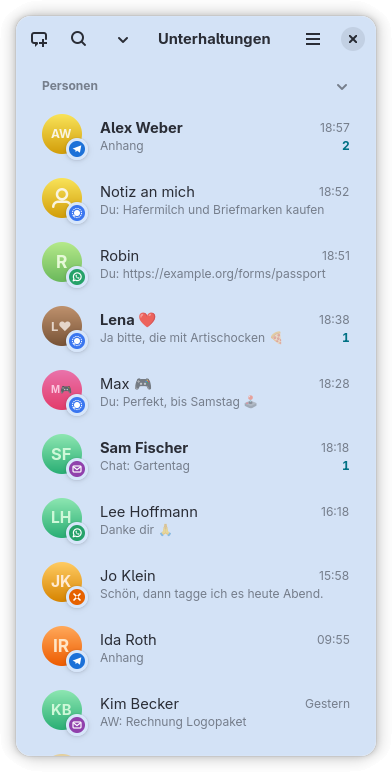
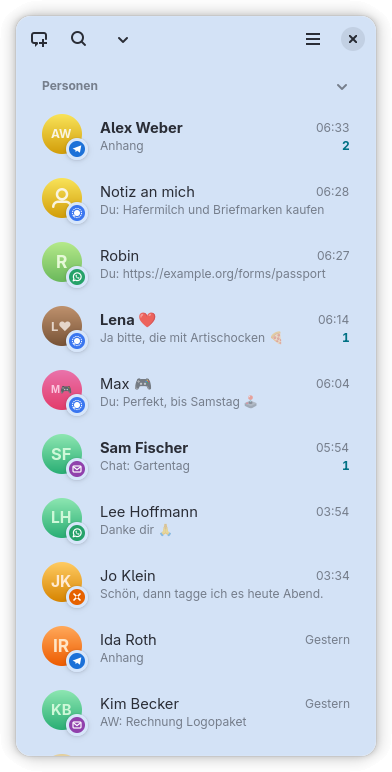
fix(ui): polish sidebar title, welcome, terms link (#492)
* fix(ui): polish sidebar title, welcome, terms link

* fix(ui): centre Delta Chat empty state

* docs(screenshots): re-render sidebar header

* chore(i18n): refresh catalogue references

diff --git a/app/src/window/welcome.ts b/app/src/window/welcome.ts
@@ -194,8 +194,27 @@ export function presentWelcome(parent: Gtk.Window | null, onClosed: () => void, 
       (load) => {
         const choices = mailAccountChoices(load);
         if (choices.length === 0) {
-          group.set_description(
-            _('No mail account yet. Once you add one, you can switch this on in its settings.'),
+          // Empty state under the explanation, centred in the space left, not a lone row.
+          const empty = new Adw.StatusPage({
+            iconName: 'mail-unread-symbolic',
+            title: _('No mail account yet'),
+            description: _('Once you add one, you can switch this on in its settings.'),
+            vexpand: true,
+          });
+          empty.add_css_class('compact');
+          const body = new Gtk.Box({ orientation: Gtk.Orientation.VERTICAL });
+          const intro = new Adw.PreferencesPage();
+          const introGroup = new Adw.PreferencesGroup({
+            title: _('Delta Chat'),
+            description: deltaChatPageText(),
+          });
+          intro.add(introGroup);
+          intro.set_vexpand(false);
+          body.append(intro);
+          body.append(empty);
+          const toolbar = page.get_child() as Adw.ToolbarView;
+          toolbar.set_content(
+            new Gtk.ScrolledWindow({ child: body, hscrollbarPolicy: Gtk.PolicyType.NEVER }),
           );
           return;
         }

diff --git a/app/src/window/terms-widgets.ts b/app/src/window/terms-widgets.ts
@@ -5,11 +5,14 @@
 
 import Gtk from 'gi://Gtk?version=4.0';
 import Pango from 'gi://Pango?version=1.0';
-import { _ } from '@curlew/protocol';
+import { _, fmt } from '@curlew/protocol';
 
-/** The link to the full terms. A long URL is shortened in the middle instead of widening the page. */
-export function termsLinkButton(uri: string, halign: Gtk.Align): Gtk.LinkButton {
-  const label = new Gtk.Label({ label: uri, ellipsize: Pango.EllipsizeMode.MIDDLE });
+/** The link to the full terms, under a short name; the URL stays in the tooltip. */
+export function termsLinkButton(uri: string, protocol: string, halign: Gtk.Align): Gtk.LinkButton {
+  const label = new Gtk.Label({
+    label: fmt(_('{protocol} Terms of Service'), { protocol }),
+    ellipsize: Pango.EllipsizeMode.END,
+  });
   return new Gtk.LinkButton({ uri, child: label, halign, tooltipText: uri });
 }
 

diff --git a/app/src/window/conversation-list.ts b/app/src/window/conversation-list.ts
@@ -486,7 +486,8 @@ export function createConversationList(
   const searchToggle = new Gtk.ToggleButton({ iconName: 'system-search-symbolic' });
   searchToggle.set_tooltip_text(_('Search'));
   searchToggle.bind_property('active', searchBar, 'search-mode-enabled', GObject.BindingFlags.BIDIRECTIONAL);
-  const header = new Adw.HeaderBar();
+  // No title: the sidebar is narrow and the buttons leave no room, so it would truncate on macOS.
+  const header = new Adw.HeaderBar({ titleWidget: new Gtk.Box() });
   const composeButton = new Gtk.Button({
     iconName: 'chat-message-new-symbolic',
     tooltipText: _('New conversation'),

diff --git a/app/src/window/protocols-page.ts b/app/src/window/protocols-page.ts
@@ -58,7 +58,7 @@ function askTerms(
   const dialog = new Adw.AlertDialog({ heading: _('Please read this first'), body: terms.summary });
   const extra = new Gtk.Box({ orientation: Gtk.Orientation.VERTICAL, spacing: 12 });
   if (terms.url) {
-    extra.append(termsLinkButton(terms.url, Gtk.Align.CENTER));
+    extra.append(termsLinkButton(terms.url, protocol.label, Gtk.Align.CENTER));
   }
   const risk = riskCheckButton();
   extra.append(risk);

diff --git a/app/src/window/account-add.ts b/app/src/window/account-add.ts
@@ -163,7 +163,7 @@ class LoginPage {
     box.append(wrappedLabel(_('Please read this first'), ['title-2']));
     box.append(wrappedLabel(terms.summary));
     if (terms.url) {
-      box.append(termsLinkButton(terms.url, Gtk.Align.START));
+      box.append(termsLinkButton(terms.url, this.protocol.label, Gtk.Align.START));
     }
     const risk = riskCheckButton();
     const accept = pillButton(_('Accept and Continue'));
